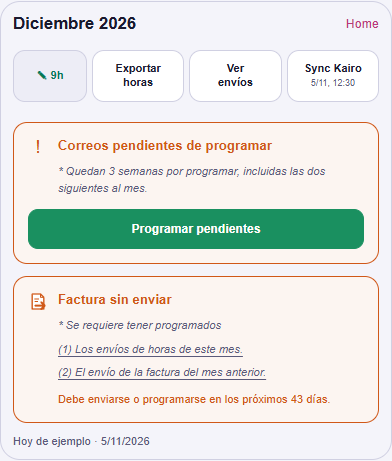
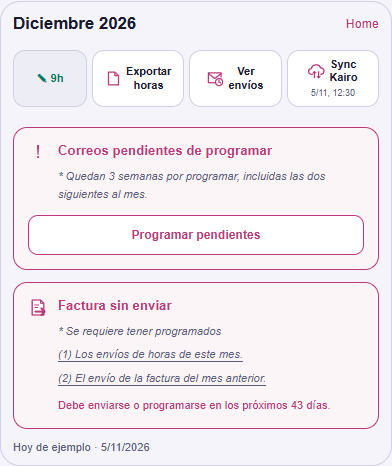
Incorporar botones blancos y dos niveles de alerta a la propuesta de Home

diff --git a/docs/visual-map/review/home-proposal-v539.html b/docs/visual-map/review/home-proposal-v539.html
@@ -20,10 +20,12 @@ body{margin:0;padding:24px 14px 40px;max-width:none;min-height:100vh}
 .draft-tools button{min-width:0;padding:7px 3px;min-height:52px;border:1px solid var(--border);border-radius:12px;background:var(--surface);color:var(--text);font:600 .69rem/1.25 var(--font)}
 .draft-tools button:first-child{background:var(--surface2);color:var(--hour-9)}
 .draft-tools small{display:block;font-size:.56rem;font-weight:500;color:var(--text-muted);margin-top:3px}
-.draft-panel{--tone:var(--c-orange);padding:14px;border:1px solid var(--tone);border-radius:14px;background:color-mix(in srgb,var(--tone) 6%,var(--surface));margin-bottom:12px}
+.draft-tool-label{display:flex;align-items:center;justify-content:center;gap:4px}
+.draft-tool-label svg{width:17px;height:17px;flex:none;color:var(--home-tone)}
+.draft-panel{--tone:var(--home-tone);padding:14px;border:1.5px solid var(--tone);border-radius:14px;background:color-mix(in srgb,var(--tone) 5%,var(--surface));margin-bottom:12px}
 .draft-panel.complete{--tone:var(--c-green)}
 .draft-panel.scheduled{--tone:var(--upcoming-text)}
-.draft-panel.changed,.draft-panel.urgent{--tone:var(--c-red)}
+.draft-panel.changed,.draft-panel.urgent{--tone:var(--c-red);border-width:2px}
 .draft-status{display:grid;grid-template-columns:20px minmax(0,1fr);gap:10px;align-items:start}
 .draft-symbol{display:flex;align-items:center;justify-content:center;color:var(--tone);font-size:1.12rem;line-height:1.2}
 .draft-symbol svg{height:21px;width:21px}
@@ -34,9 +36,7 @@ body{margin:0;padding:24px 14px 40px;max-width:none;min-height:100vh}
 .draft-rules u{text-decoration-thickness:1px;text-underline-offset:3px}
 .draft-rule-done{color:var(--c-green)}
 .draft-deadline{font-size:.7rem;line-height:1.5;color:var(--tone);margin:10px 0 0}
-.draft-action{display:block;width:100%;min-height:40px;padding:8px;border-radius:10px;border:1px solid var(--tone);background:var(--surface);color:var(--tone);font:600 .76rem var(--font);margin-top:12px;cursor:pointer}
-.draft-action.primary{background:var(--c-green);border-color:var(--c-green);color:white}
-.draft-action.invoice{color:var(--home-tone);border-color:var(--home-tone)}
+.draft-action{display:block;width:100%;min-height:40px;padding:8px;border-radius:10px;border:1px solid var(--home-tone);background:var(--surface);color:var(--home-tone);font:600 .76rem var(--font);margin-top:12px;cursor:pointer}
 .draft-summary-row{display:grid;grid-template-columns:minmax(75px,1fr) minmax(150px,184px);gap:10px;align-items:center}
 .draft-summary{padding:10px;border:1px solid var(--border);border-radius:12px;background:var(--surface);font-size:.66rem;color:var(--text-muted)}
 .draft-summary p{margin:0 0 7px;display:flex;justify-content:space-between;gap:7px;line-height:1.3}
@@ -79,9 +79,9 @@ body{margin:0;padding:24px 14px 40px;max-width:none;min-height:100vh}
       <div class="draft-month"><strong id="draftMonthTitle"></strong><span>Home</span></div>
       <div class="draft-tools">
         <button type="button">✎ 9h</button>
-        <button type="button">Exportar<br>horas</button>
-        <button type="button">Ver<br>envíos</button>
-        <button type="button">Sync Kairo<small>5/11, 12:30</small></button>
+        <button type="button"><span class="draft-tool-label"><svg viewBox="0 0 24 24" fill="none" stroke="currentColor" stroke-width="1.8" stroke-linejoin="round" aria-hidden="true"><path d="M5 3h9l5 5v13H5zM14 3v5h5"/></svg><span>Exportar<br>horas</span></span></button>
+        <button type="button"><span class="draft-tool-label"><svg viewBox="0 0 24 24" fill="none" stroke="currentColor" stroke-width="1.8" stroke-linecap="round" stroke-linejoin="round" aria-hidden="true"><path d="M20 10V4H2v14h9M2 5l9 7 9-7"/><circle cx="17" cy="17" r="5"/><path d="M17 14v3l2 1"/></svg><span>Ver<br>envíos</span></span></button>
+        <button type="button"><span class="draft-tool-label"><svg viewBox="0 0 24 24" fill="none" stroke="currentColor" stroke-width="1.7" stroke-linecap="round" stroke-linejoin="round" aria-hidden="true"><path d="M6.5 16H5a4 4 0 0 1-.4-8A7 7 0 0 1 18 7a4.5 4.5 0 0 1 1 8.9h-1.5"/><path d="M9 21v-9m-2 2 2-2 2 2M15 12v9m-2-2 2 2 2-2"/></svg><span>Sync<br>Kairo</span></span><small>5/11, 12:30</small></button>
       </div>
       <div id="draftPanels" aria-live="polite"></div>
       <p id="draftActionFeedback" role="status"></p>
@@ -94,7 +94,8 @@ body{margin:0;padding:24px 14px 40px;max-width:none;min-height:100vh}
         <li><strong>Factura.</strong> «Factura sin enviar», «Factura programada» o «Factura enviada». El plazo se expresa en días. Cuando falten requisitos, aparecen numerados y subrayados.</li>
         <li><strong>Alineación.</strong> Los dos títulos comparten el mismo margen y la misma columna de icono.</li>
         <li><strong>Última sincronización.</strong> La fecha queda en Sync Kairo. Los paneles muestran los estados guardados.</li>
-        <li><strong>Alertas.</strong> Naranja para pendientes. Rojo si quedan menos de siete días o cambian datos de una semana programada.</li>
+        <li><strong>Botones.</strong> Fondo blanco, iconos y texto con el acento rosa de Home. El mismo formato para exportar, consultar, sincronizar y enviar la factura.</li>
+        <li><strong>Dos niveles de alerta.</strong> Rosa de Home con fondo suave y borde marcado para pendientes. Rojo más intenso si quedan menos de siete días o se requiere revisar una programación.</li>
       </ol>
       <p>Tras revisar la propuesta, el modelo de estados y los mensajes se unificarían en Home y se comprobarían los meses actuales, futuros y los cambios de datos.</p>
     </aside>
@@ -112,8 +113,8 @@ function summary(month){
   const december=month===12;
   return '<div class="draft-summary"><p><span>Total mensual</span></p><p><span>'+(december?'23':'21')+' días laborables</span><b>'+(december?'197':'179')+'h</b></p><p class="off"><span>− 2 festivos</span><b>18h</b></p><p class="worked"><span>'+(december?'21':'19')+' días trabajados</span><strong>'+(december?'179':'161')+'h</strong></p></div>';
 }
-function action(label,kind){
-  return '<button type="button" class="draft-action '+kind+'">'+label+'</button>';
+function action(label){
+  return '<button type="button" class="draft-action">'+label+'</button>';
 }
 function renderDraft(){
   const month=Number(monthInput.value),scenario=scenarioInput.value;
@@ -126,17 +127,17 @@ function renderDraft(){
   let mailContent=pending||changed?'<p class="draft-note"><em>'+mailNote+'</em></p>':'';
   let mail=status(pending||changed?'!':'✓',mailTitle,mailContent);
   if(!pending&&!changed)mail='<div class="draft-summary-row">'+mail+summary(month)+'</div>';
-  if(pending||changed)mail+=action(changed?'Revisar cambios':'Programar pendientes',changed?'':'primary');
+  if(pending||changed)mail+=action(changed?'Revisar cambios':'Programar pendientes');
   const mailTone=changed?'changed':pending?(scenario==='urgent'?'urgent':''):'complete';
   let invoice;
   if(['scheduled','offline','sent','changed'].includes(scenario)){
     const sent=scenario==='sent';
-    invoice='<section class="draft-panel '+(sent?'complete':'scheduled')+'">'+status(invoiceIcon,sent?'Factura enviada':'Factura programada','<p class="draft-note">Envío '+(sent?'confirmado':'el '+(month===12?'18/12':'20/11'))+'</p>')+action('Ver envíos','invoice')+'</section>';
+    invoice='<section class="draft-panel '+(sent?'complete':'scheduled')+'">'+status(invoiceIcon,sent?'Factura enviada':'Factura programada','<p class="draft-note">Envío '+(sent?'confirmado':'el '+(month===12?'18/12':'20/11'))+'</p>')+action('Ver envíos')+'</section>';
   }else{
     const blocked=pending||scenario==='previous';
     const note=blocked?'<div class="draft-note draft-rules"><em>* Se requiere tener programados</em><span'+(scenario==='previous'?' class="draft-rule-done"':'')+'><em><u>(1) Los envíos de horas de este mes.</u>'+(scenario==='previous'?' ✓':'')+'</em></span><span><em><u>(2) El envío de la factura del mes anterior.</u></em></span></div>':'';
     const deadline='<p class="draft-deadline">Debe enviarse o programarse en los próximos '+remaining+' días.</p>';
-    const invoiceAction=scenario==='previous'?action('Ver factura anterior','invoice'):pending?'':action('Enviar factura','invoice');
+    const invoiceAction=scenario==='previous'?action('Ver factura anterior'):pending?'':action('Enviar factura');
     invoice='<section class="draft-panel '+(remaining<7?'urgent':'')+'">'+status(invoiceIcon,'Factura sin enviar',note+deadline)+invoiceAction+'</section>';
   }
   const offline=scenario==='offline'?'<p class="draft-network">Sin conexión. Se muestran los últimos estados guardados.</p>':'';

diff --git a/tools/browser/smoke.spec.js b/tools/browser/smoke.spec.js
@@ -30,6 +30,7 @@ test('rutina flexible: cupo del primer mes, sesiones pasadas y conservación al 
  await chooseTime(page,'#rutPlanTime','19:30');await page.locator('#rutPlanSave').click();
  await expect(page.locator('.rut-plan-day.planned')).toHaveCount(1);
  await expect(page.locator('.rut-plan-row')).toContainText('19:30');
+ await page.locator('.rut-plan-list summary').click();
  await page.locator('[data-redit]').click();await expect(page.locator('#rutHistoryEditOv')).toBeVisible();
  await expect(page.locator('#rutHistoryCancel')).toHaveCount(0);
  await page.locator('#rutHistoryEditClose').click();

diff --git a/CLAUDE.md b/CLAUDE.md
@@ -13,6 +13,7 @@ Una tarea exclusivamente documental conserva las versiones y los archivos de la 
 
 ## Reglas vigentes
 - En cualquier pantalla, las aclaraciones introducidas con un asterisco se presentan en cursiva, incluido el asterisco.
+- Próxima revisión de Home acordada el 05/11/2026. Los botones de acción (exportar, ver envíos, sincronizar y enviar factura) comparten fondo blanco y acento rosa. Los avisos pendientes usan ese acento con fondo suave y borde marcado. El rojo se reserva a revisiones y plazos urgentes. La propuesta se revisa antes de aplicar esta actualización visual a Home.
 - PWA estática sin backend. Mantener la arquitectura actual y la compatibilidad de backups JSON.
 - css/styles.css es generado. Editar css/source/; las otras hojas CSS siguen siendo editables. No alterar el orden de cascada del catálogo por comodidad.
 - Atrás, flechas y Hoy: base y variantes en css/source/navigation-controls.css; disposición de cabeceras en su módulo. El carrusel conserva su combinación con .ev-btn en event-panels.css. No añadir parches de estos controles a shared-refinements.css.
